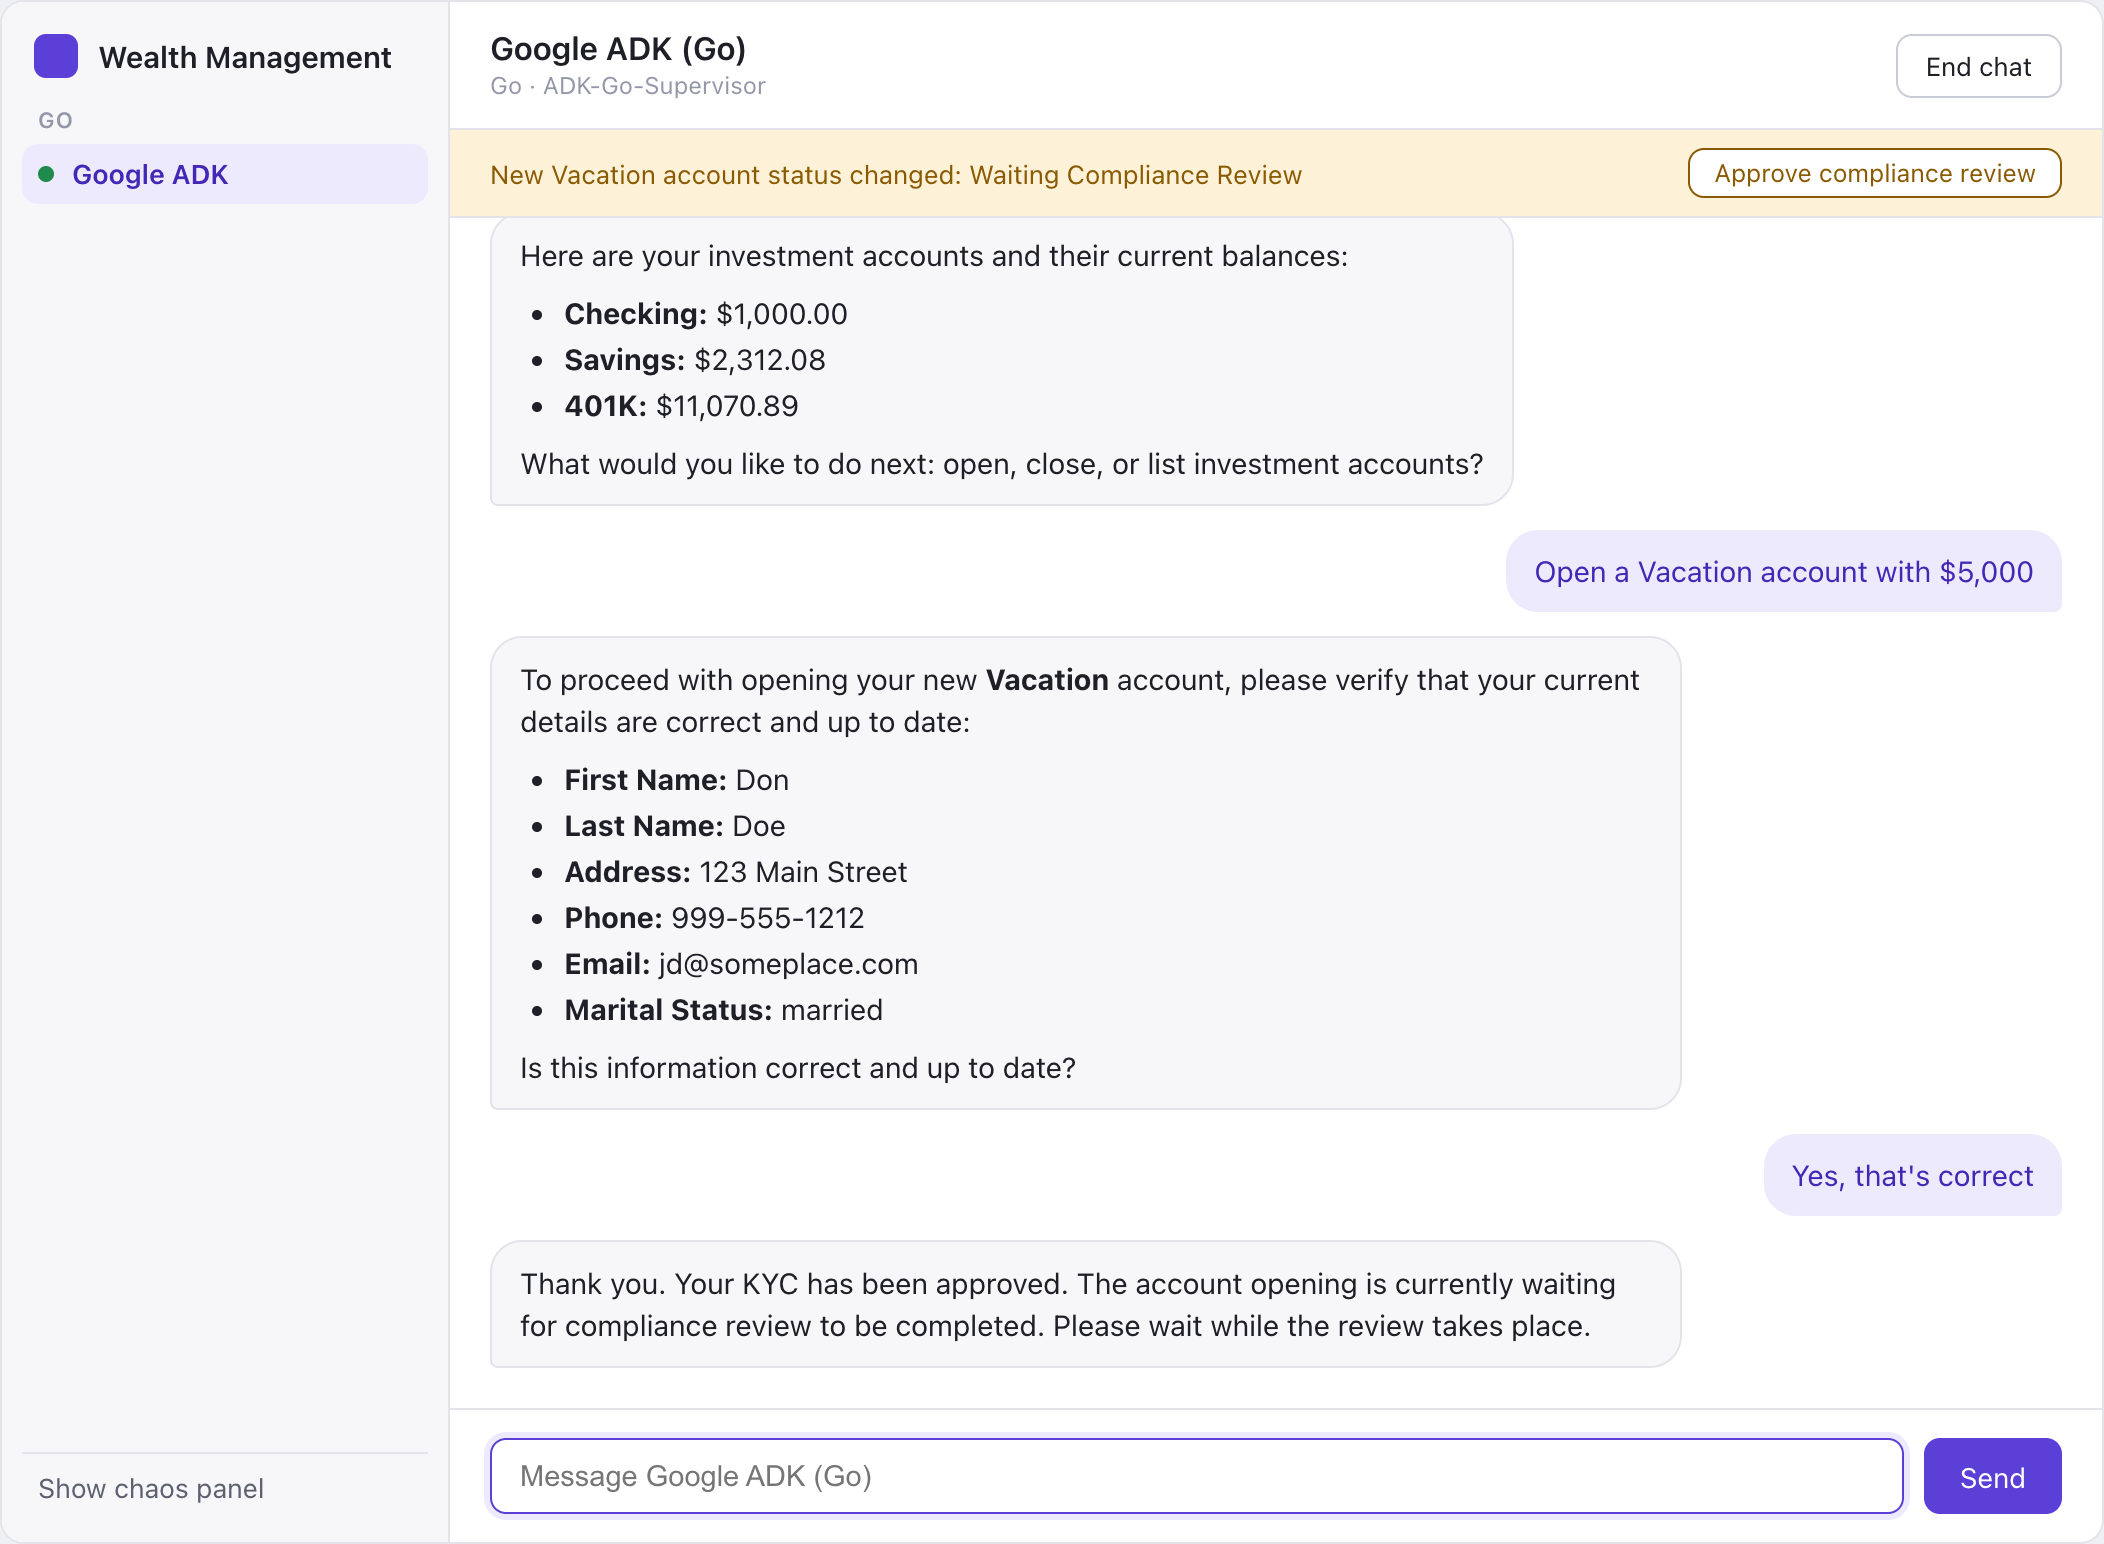
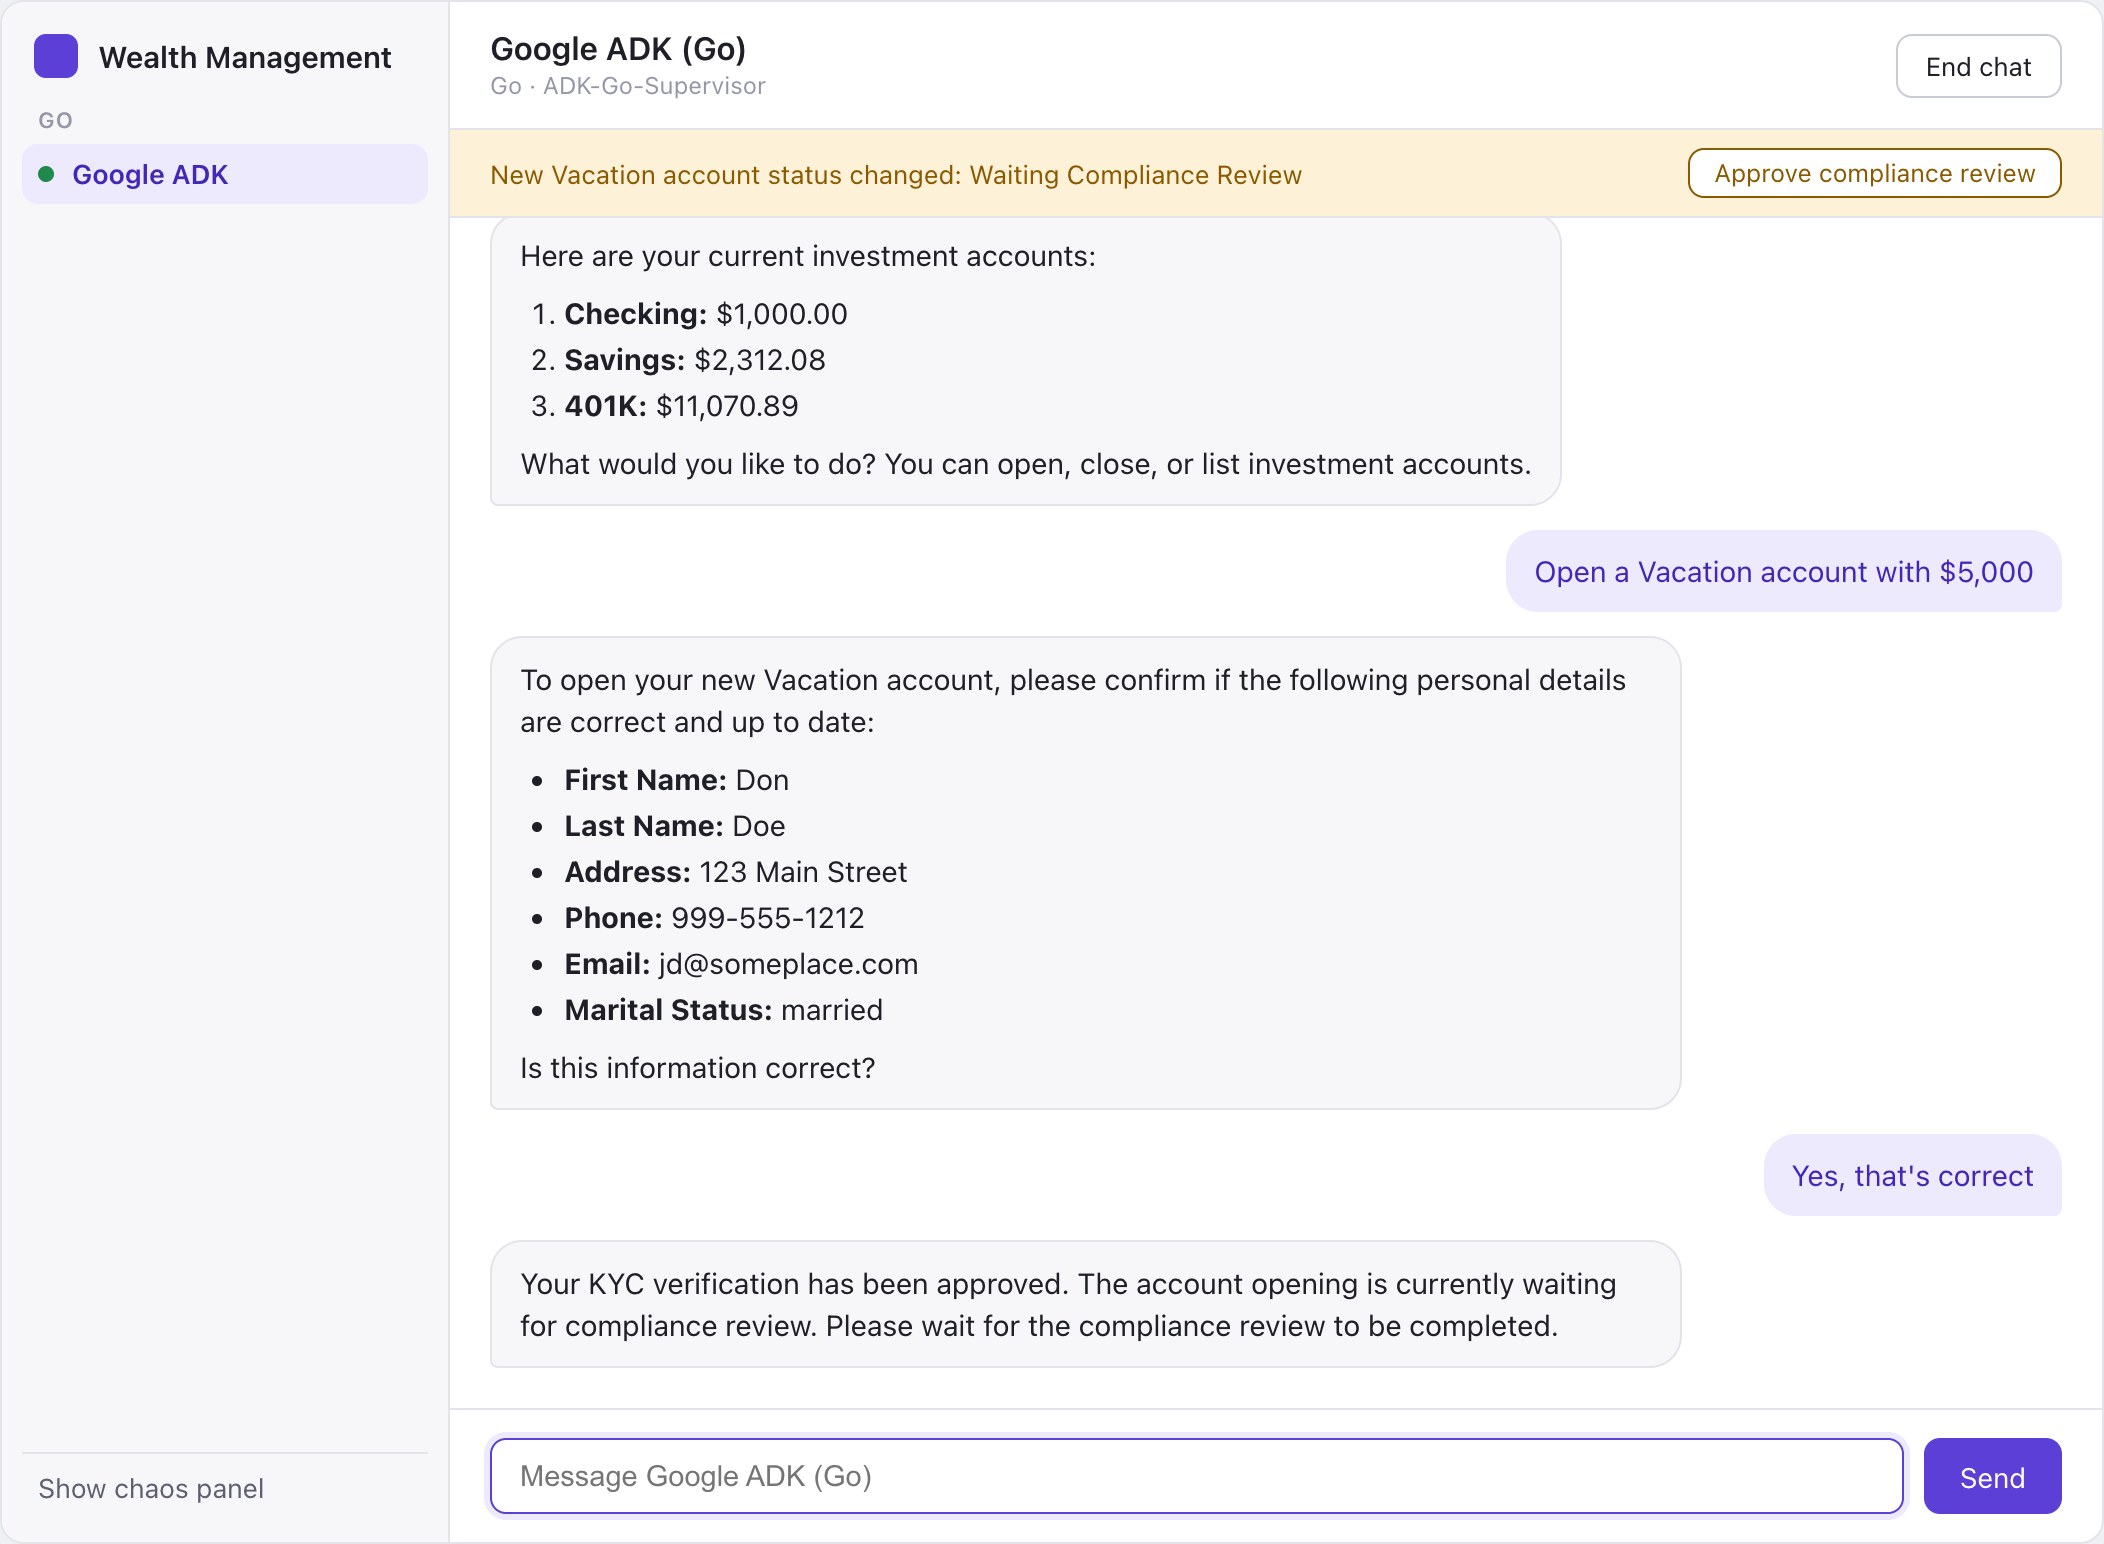
Number the Go and TypeScript Google ADK agents' lists, with bold names
Both now ask for Markdown laid out like the other frameworks': numbered lists with bold names for
accounts and beneficiaries, a bulleted list with bold labels for the details to confirm. Retakes their
web UI screenshots and updates the TypeScript version's standalone sample output.

diff --git a/src/typescript/google_adk/prompts/agent-constants.ts b/src/typescript/google_adk/prompts/agent-constants.ts
@@ -14,7 +14,8 @@
  * Prepended to every agent's instructions, as the reference prepends the OpenAI Agents SDK's
  * RECOMMENDED_PROMPT_PREFIX, adapted to ADK's transfer_to_agent. Without it, an agent asked about
  * something outside its routine tends to tell the customer it will transfer them (or ask whether
- * they want to be) instead of calling transfer_to_agent.
+ * they want to be) instead of calling transfer_to_agent. It also asks for Markdown replies, laid out
+ * like the reference implementation's: numbered lists with bold names.
  */
 export const HANDOFF_PROMPT_PREFIX = `# System context
 You are part of a multi-agent system. Each agent has its own instructions and tools, and can transfer the
@@ -24,6 +25,16 @@ transfer_to_agent right away: do not ask the customer whether they want to be tr
 that you are transferring them. Transfers between agents are handled seamlessly in the background; do not
 mention or draw attention to these transfers in your conversation with the customer. The agent you
 transfer to answers the customer's request.
+
+# Formatting
+Write your replies in Markdown, which the chat window renders:
+- Put a blank line before and after every list.
+- Show accounts as a numbered list, one per line, with the account name in bold, for example
+  "1. **Checking:** $1,000.00". Format balances with comma thousands separators and two decimal places.
+- Show beneficiaries as a numbered list, one per line, with the name in bold, for example "1. **John Doe** - Son".
+- Show the customer's details, when asking them to confirm them, as a bulleted list with one detail per line
+  and its label in bold, for example "- **Address:** 123 Main Street".
+- Don't use tables or headings.
 `;
 
 // ADK agent names can't contain spaces, so each name uses underscores.

diff --git a/src/go/google_adk/internal/prompts/prompts.go b/src/go/google_adk/internal/prompts/prompts.go
@@ -12,6 +12,8 @@ import "fmt"
 // OpenAI Agents SDK's RECOMMENDED_PROMPT_PREFIX. Without it, an agent asked about
 // something outside its routine tends to tell the customer it will transfer them (or ask
 // whether they want to be) instead of calling transfer_to_agent.
+// It also asks for Markdown replies, laid out like the reference implementation's: numbered
+// lists with bold names.
 const HandoffPrefix = `# System context
 You are part of a multi-agent system. Each agent has its own instructions and tools, and can transfer the
 conversation to another agent when appropriate. Transfers are done by calling the transfer_to_agent tool
@@ -20,6 +22,16 @@ transfer_to_agent right away: do not ask the customer whether they want to be tr
 that you are transferring them. Transfers between agents are handled seamlessly in the background; do not
 mention or draw attention to these transfers in your conversation with the customer. The agent you
 transfer to answers the customer's request.
+
+# Formatting
+Write your replies in Markdown, which the chat window renders:
+- Put a blank line before and after every list.
+- Show accounts as a numbered list, one per line, with the account name in bold, for example
+  "1. **Checking:** $1,000.00". Format balances with comma thousands separators and two decimal places.
+- Show beneficiaries as a numbered list, one per line, with the name in bold, for example "1. **John Doe** - Son".
+- Show the customer's details, when asking them to confirm them, as a bulleted list with one detail per line
+  and its label in bold, for example "- **Address:** 123 Main Street".
+- Don't use tables or headings.
 
 `
 

diff --git a/src/typescript/google_adk/standalone/README.md b/src/typescript/google_adk/standalone/README.md
@@ -42,8 +42,10 @@ Beneficiary_Agent: I can help with that. What is your client ID?
 Enter your message: 123
 
 Beneficiary_Agent: Here are your beneficiaries:
-* John Doe (son)
-* Jane Doe (daughter)
-* Joe Doe (spouse)
+
+1. **John Doe** - Son
+2. **Jane Doe** - Daughter
+3. **Joan Doe** - Spouse
+
 Would you like to add, delete or list your beneficiaries?
 ```
